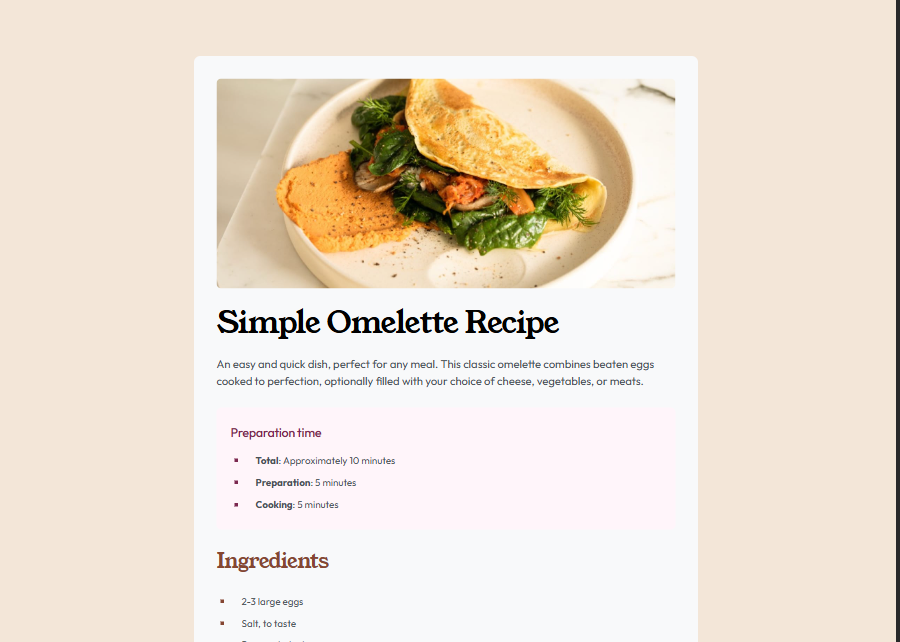
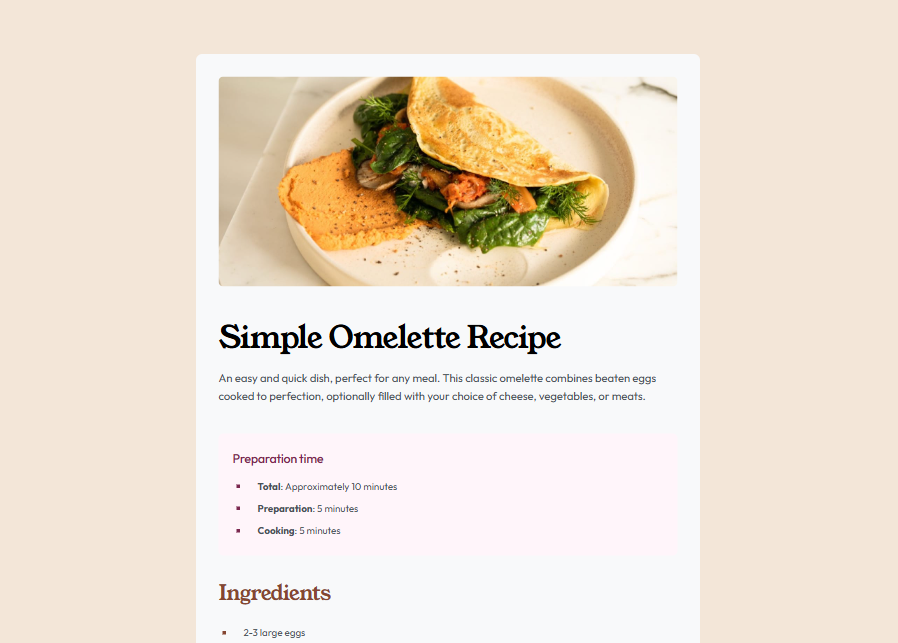
fix

diff --git a/style.css b/style.css
@@ -100,13 +100,13 @@ hr {
 .text-box {
   display: flex;
   flex-direction: column;
-  gap: 2.4rem;
+  gap: 3.2rem;
 }
 
 .omelette-pic {
   width: 100%;
   border-radius: 8px;
-  margin-bottom: 2.4rem;
+  margin-bottom: 4.8rem;
 }
 
 .omelette-intro h1 {
@@ -116,6 +116,10 @@ hr {
   letter-spacing: -1.5px;
   line-height: 1;
   margin-bottom: 2.4rem;
+}
+
+.omelette-intro {
+  margin-bottom: 0.8rem;
 }
 
 .preparation-time {

diff --git a/queries.css b/queries.css
@@ -27,11 +27,16 @@
   .omelette-pic {
     border-radius: 0;
     width: 100%;
-    margin: 0;
+    margin-bottom: 0;
+  }
+
+  .omelette-intro {
+    margin-bottom: 0;
   }
 
   .text-box {
     padding: 3.2rem 3.2rem;
+    gap: 3.2rem;
   }
 
   .omelette-intro h1 {

diff --git a/README.md b/README.md
@@ -21,8 +21,8 @@ This is a solution to the [Recipe page challenge on Frontend Mentor](https://www
 
 ### Links
 
-- Solution URL: [](https://github.com/ChiminFi/recipe-page-main-project)
-- Live Site URL: [](https://your-live-site-url.com)
+- Solution URL: [Github](https://github.com/ChiminFi/recipe-page-main-project)
+- Live Site URL: [Live site](https://chiminfi.github.io/recipe-page-main-project/)
 
 ## My process
 
